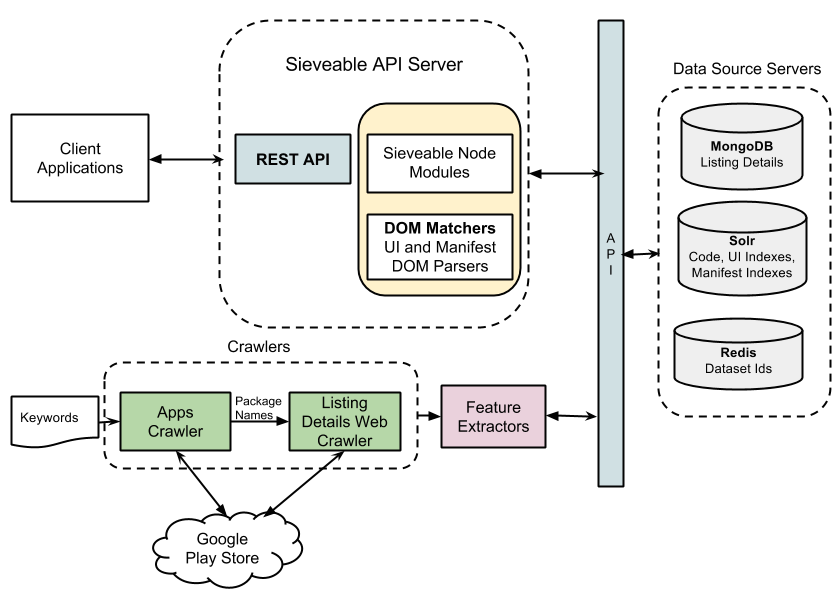
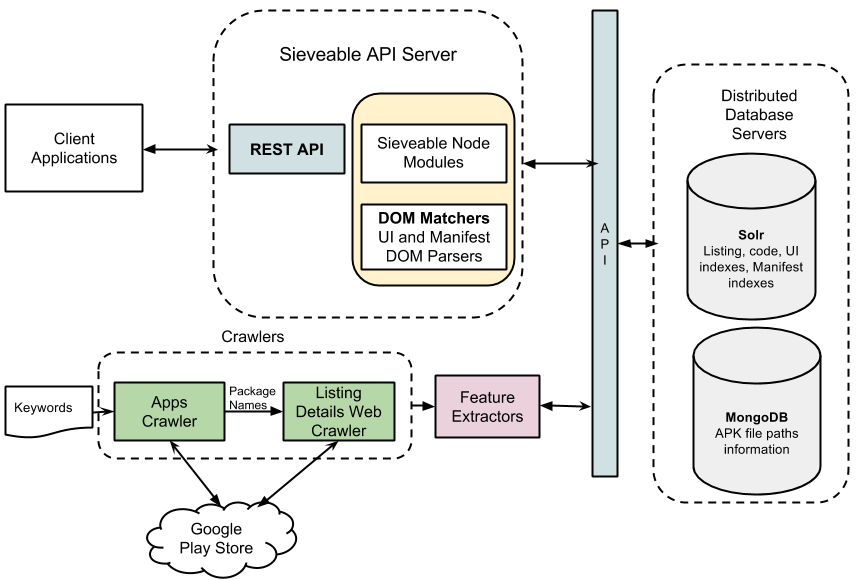
edit and update figures

Changed region(s): [[0.0, 0.0, 0.994, 1.0]]

diff --git a/sieveable.tex b/sieveable.tex
@@ -5,52 +5,54 @@ Most of the prior work in this area is limited to a single view of the data  and
 In addition, data-driven systems are largely constrained by the availability of samples and efficient indexing.
 This chapter presents Sieveable, a multi-view search engine for Android apps.
 Sieveable enables deep searching and filtering across multiple levels: (a) Listing Details, (b) User Interface structure, (c) Manifest structure, and (d) API calls. 
-Sieveable crawled and indexed more than 125,000 apps. 
-It provides a query by example language to specify deep search queries. 
-I discuss new findings that shed light on the potential of developing new data-driven systems based on our approach to answer different analysis questions.
-
-The work presented here is the result of collaboration with Jackson Chen and Tom Yeh (\cite{Alharbi_2015_VLDB}).
+Sieveable crawled and indexed more than 450,000 apps.
+It provides a query by example language to specify deep search queries.
+I discuss the key challenges in designing and developing a scalable retrieval system to enable the deep and longitudinal approach presented in this dissertation.
 
 \section{Introduction}
+Mobile software platforms feature a distribution platform for applications called marketplaces (or app stores).
+App marketplaces have become the largest platform for distributing mobile applications, where users can search for apps, browse through different categories, rate or review apps, and install free and paid apps.
+The popularity of mobile devices and the advances in their operating systems have led to a significant increase in the number of apps published in marketplaces.
+For example, as of April 2016, the number of apps in the Google Play Store has exceeded two million apps \cite{appbrain_play_apps}.
+These apps have become a valuable data source to mine and extract insight from in both academia and industry.
 
-The advent of online app markets such as the Google Play Store and Apple's App Store has made it convenient for developers to publish and sell apps and users to discover, purchase and install apps. 
-Together, a positive network effect has been in full force and has led to the exponential growth of the number of apps available in these online marketplaces.
-These apps collectively have become an important data mining problem for many in the academia as well as in the industry.
-Three domains in particular have seen significant data mining activities with respect to these apps.
-First, in the commercial domain, companies have been mining listing details data such as user reviews and ratings across these apps to understand customers' opinions and preferences \cite{appbrain,apptrace}.
-Second, in the user interface design domain, researchers have been mining the layouts of tens of thousands of apps to understand their design patterns \cite{Alharbi_2015_MobileHCI}.
-Third, in the security domain, researchers have been mining large corpuses of apps and malwares to learn about security vulnerabilities involving permissions uses \cite{zhou_2012_SP_dissecting} and sensitive data leaks \cite{Arzt_2014_PLDI}
+In the recent years, there has been a noticeable amount of research activities on how to extract meaningful insights from apps data.
+The research in mining mobile apps has been dominated by three single views.
+First, researchers have mined the listing details data (metadata) of apps such as ratings and user reviews to perform sentiment analysis and help developers make informed decisions supported by data \cite{fu_2013_KDD,chen_2014_ICSE,kong_2015_CCS}. 
+Others have created tools and commercial services to assist app developers and publishers in better understanding of listing details data \cite{appfigures,applause,appannie}.
+Second, researchers have mined user interface (UI) design data such as styles and layouts of thousands of apps to gain insights into their design patterns \cite{shirazi_EICS_2013} and my work in chapter~\ref{ch:mining_design_changes_chapter}.
+Third researchers have also mined the source code of apps to learn about malicious behavior and protect users' privacy-sensitive data \cite{zhou_2012_SP_dissecting,lu_2012_CCS,Arzt_2014_PLDI}.
+What is missing in prior research is an approach that takes both a holistic view (design and development) and temporal view (multiple versions) of the apps.
+There are multiple benefits for considering a holistic view that involves both design and development views in mobile app analysis.
 
-While research activities in these diverse domains have generated plenty of useful insights, they were often limited only to a single view of the data about each app.
-Commercial data mining of mobile apps tends to focus on the public view of the app, such as the app's listing information on a marketplace's website.
-The public listing information may include user reviews, ratings, app description, category, etc.
-Data mining for user interface design research tends to focus on the design view of an app, such as the layout files (XML in Android) and the user interface hierarchy defined in these files (e.g., a panel containing two buttons).
-Security researchers tend to pay attention to the program view of an app in the form of decompiled binaries or source code to perform programmatic analysis to understand security issues.
-There is little work, if any, that has taken a holistic view of the apps encompassing these three views.
-
-Searching and mining apps across multiple views can potentially accomplish what is currently not possible in a single view.
-In UI design analysis, dynamic components created at runtime are often missed because they were defined in the program rather than in the layout files.
-This shortcoming can be solved by considering both the design and program views simultaneously.
-In commercial analysis, sentiment analysis of user comments in the public view can be done to understand users' opinions about the apps, but it is often difficult to link these opinions to specific features.
-By incorporating the design view and program view, one can potentially establish a causal relationship between a new feature (or a bug) and the onset of certain opinions.
-In security analysis, a function could be determined, through programmatic analysis, to be triggering a sensitive operation, such as sending an SMS message or taking a photo.
+% Design and Development
+App design analysis focuses on UI related data (e.g.,) layout and style files) while development analysis focuses on code and configuration data (e.g., Manifest files).
+In design analysis, UI components are often created or modified at runtime.
+When only analyzing the static layout files, this observation is missed because that behavior is defined in the app source code.
+This shortcoming can be solved by combining both the design and development views.
+In sentiment analysis of user reviews, it is often difficult to link opinions to specific features.
+By incorporating the design view and development view, one can potentially establish a causal relationship between a new feature (or a bug) and the onset of certain opinions.
+In security analysis, a function could be determined, through program analysis, to be triggering a sensitive operation, such as sending an SMS message or taking a photo.
 But it is often hard to judge if the sensitive operation is warranted from the program view alone.
-By also taking a view of the design, one may examine which button may be linked to this sensitive operation and whether the button's label legitimizes such use: for example, ``Take a Picture'' for camera operations.
+By also taking a view of the design, one may examine which button may be linked to this sensitive operation and whether the button's label legitimizes such use: for example, ``Send'' for sending an SMS message.
+% Temporal analysis
+Furthermore, the increase number of app updates published to marketplaces has largely gone unobserved. 
+By only considering a single version of the app, one cannot form a deep understanding of the emerging trends in mobile design and development.
+% Scalable
+Supporting multi-view temporal analysis of apps is always challenging because it requires a scalable infrastructure for integrating multiple heterogeneous data sources.
+The store listing details data is document-oriented where every app shares a number of common fields such as the title, ratings, and category, which can be mined from app marketplaces.
+Design data is hierarchical; the layout files specify the relationship between various UI components in a tree structure.
+Program data is highly structural as it involves a large number of names of classes, methods, and variables.
+Mining apps in multiple views would require an integrated infrastructure that supports document-oriented, hierarchical, and structural data, and provides an easy interface to store, index, mine and analyze such data.
 
-Multiview data mining of apps is hard to do because most of the existing system architectures for mining apps have been built for one view only.
-Public view data is document-oriented where every app shares a number of common fields such as the title, ratings, and category, which can be mined from app marketplaces.
-Design data is hierarchical; the layout files would specify the containment relationship between components as a tree.
-Program data is highly textual as it involves a large number of names of classes, methods, and variables.
-If deeper program analysis is performed, such data would involve call graphs, giving the data a network topology.
-Thus, mining apps in multiple views would require an integrated infrastructure that supports document-oriented, hierarchical, textual and graphical data, and provides an easy interface to store, index, mine and analyze such data.
-
-This chapter presents \emph{Sieveable}, a novel search infrastructure for multi-view data mining of apps on a large scale to address the needs mentioned above.
-It introduces a new query language with a declarative, ``query-by-example'' syntax.
-Using this language, analysts could quickly retrieve a sample from a large corpus of apps that meet certain criteria with respect to the public view, the design view, and the program view in an integrated manner.
-
+In this chapter, I pursues a more general analysis approach that takes a holistic view of the apps over time and can potentially accomplish what is currently not possible in a single-view, single-version approach.
+I present \emph{Sieveable}, a novel retrieval platform for multi-view data mining of apps on a large scale to address the needs mentioned above.
+I discuss a new query language with a declarative, ``example-based'' syntax.
+Using this language, analysts could quickly retrieve a sample from a large corpus of apps that meet certain criteria with respect to the listing view, design view, and program view in an integrated manner.
+Prior to Sieveable, each of these analyses would take days of effort in writing custom scripts and running them on a cluster of servers (my work in chapter~\ref{ch:mining_design_changes_chapter}).
+With Sieveable, each analysis task can be expressed as a search query and results can be obtained in a matter of minutes.
 The chapter continues as follows. An overview of our system, detail description of its implementation to enable a new multi-view analytical queries.
-Prior to Sieveable, each of these analyses would take days of effort in writing custom scripts and running on a cluster \cite{Alharbi_2015_MobileHCI}.
-With Sieveable, each analysis can be expressed as a query and results can be obtained in a matter of minutes.
+
 
 \section{System Overview}
 In this section, we describe the key requirements of our system and its core components at a high level.
@@ -107,7 +109,7 @@ We download the Android Application Package (APK) file for apps from the officia
 For each APK file we download and add to the dataset, a web crawler is run to obtain its listing details web page.
 Next, we parsed the listing details HTML page to extract store listing values.
 In order to expose the app's UI and code structure, we run a reverse-engineering tool to decompile it, which results in a directory tree of app files that make up the app. 
-With more than one year effort, we manged to collect 125,306 apps with multiple versions\footnote{Note that sometimes the crawler was down, so it may have missed a number of updates.}.
+With more than one year effort, we manged to collect 452,775 apps with multiple versions\footnote{Note that sometimes the crawler was down, so it may have missed a number of updates.}.
 
 \subsubsection{Features Extraction}
 Once an app is downloaded and decoded, we run a set of tools to extract features at four levels:
@@ -119,13 +121,13 @@ All extracted features are listed in Table~\ref{tab:table_features}.
 
 \subsubsection{Features Indexing}
 When app features are extracted, we store and index them in scalable data stores to support efficient execution of search queries.
-Sieveable comprises four main data collections: listing details, user interface, Manifest, and source code.
-These collections are stored in different data stores and use different indexing strategies:
-1) Listing details features are stored in a document oriented database.
+Sieveable comprises four main data collections: APK files, listing details, user interface, Manifest, and source code.
+1) APK files: The binary APK files are saved on disk across multiple locations and their paths are stored in a document-oriented database along with their name and version values to facilitate quick retrieval.
+2) Listing details features are stored in a document-oriented database.
 We use text indices on specific fields (description, what's new section, reviews, and title).
-2) User interface: we use a structural index that keeps track of all DOM elements' relationships (parent/child and ancestor/descendant).
-3) Manifest features: we index DOM elements and their attributes.
-4) Code: we use a text index to support search of invoked API methods.
+3) User interface: we use a structural index that keeps track of all DOM elements' relationships (parent/child and ancestor/descendant).
+4) Manifest features: we index DOM element names and their attribute values.
+5) Code: we use a text index to support search of invoked API classes and methods.
 
 \subsubsection{Query Language Specification}
 \underline{\textbf{Query Syntax:}}
@@ -151,24 +153,31 @@ Multiple search conditions can be combined together allowing for a deep search a
 The \textit{RETURN} clause defines the subset of fields to include in the results.
 Multiple levels search conditions can be added to the \textit{WHERE} clause.
 For example, a search query for apps developed by \textit{Google}, have a \textit{LinearLayout} with a child \textit{Button}, use the SEND\_SMS permission, and call the takePicture API call, will look like:
-\begin{minted}{xml}
-	MATCH app
+\begin{listing}[ht]
+	\begin{minted}{xml}
+	MATCH app(latest=true)
 	WHERE
-    	<developer>Google Inc.</developer>
-	    <LinearLayout>
-	       <Button/>
-     	</LinearLayout>
-     	<uses-permission android:name="android.permission.SEND_SMS"/>
-     	<code class="android.hardware.Camera" method="takePicture"/>
+	<developer>Google Inc.</developer>
+	<LinearLayout>
+	   <Button/>
+	</LinearLayout>
+	<uses-permission android:name="android.permission.SEND_SMS"/>
+	<code class="android.hardware.Camera" method="takePicture"/>
 	RETURN app
-\end{minted}
+	\end{minted}
+	\caption{Sieveable query example.}
+	\label{lst:query_example}
+\end{listing}
 
 \underline{\textbf{Query Parser}}
 When a query is submitted to Sieveable, it parses the search condition parts to determine their query levels (listing, UI, manifest, and code).
 Sieveable maintains a set of dictionaries to lookup and extract search condition parts by their levels.
 In particular, it maintains three dictionaries: a predefined set of listing details fields, and a set of manifest XML elements, and a single XML element named code for code related queries.
 If an XML element in the query condition is not defined in any of the dictionaries, we consider it as a UI search element.
-For example, in the previous search query, Sieveable parses the \textit{WHERE} clause part and groups the query parts by their levels. This results in four query parts: a) listing details query for the \texttt{<developer>} tag, b) manifest query for the \texttt{<uses-permissions>} tag, c) code query for the \texttt{<code>} tag, and UI query for the remaining elements (LinearLayout and its child). Sieveable sends these query parts to the query executor.
+For example, Sieveable interprets the query in Listing~\ref{lst:query_example} as follows.
+It parses the \textit{WHERE} clause part and groups the query parts by their levels.
+This results in four query parts: a) listing details query for the \texttt{<developer>} tag, b) manifest query for the \texttt{<uses-permissions>} tag, c) code query for the \texttt{<code>} tag, and UI query for the remaining elements (\texttt{<LinearLayout>} and its child).
+Sieveable sends these query parts to the query executor.
 
 \underline{\textbf{Query Executor}}
 \begin{figure}
@@ -184,28 +193,24 @@ Collection finders return a set of app ids that matched the given query.
 Sieveable computes the intersection of app ids to avoid scanning entire collections.
 This also ensures that the final query results only contain ids for apps matched by all query conditions.
 
-Figure~\ref{fig:fig_query_execution} shows the execution sequence of the aforementioned query and the number of apps scanned by each collection.
-The dataset contains over 125K apps, the listing details query part is executed by the \textit{findByListing} module, which returns 249 apps developed by Google.
-Next, the \textit{findByCode} module executes the code query part on the the entire collection and returns N number of apps.
-Sieveable computes the intersection of the two results which becomes 66 apps.
-The \textit{findByManifestIndex} module searches the Manifest index for the Manifest query part and returns N number of apps.
-Sieveable computes the intersection of the two results which becomes 21 apps.
+Figure~\ref{fig:fig_query_execution} shows the execution sequence of the query in Listing~\ref{lst:query_example} and the number of apps scanned by each collection.
+The entire dataset contains over 400,000 apps.
+The listing details query part is executed by the \textit{findByListing} module, which returns 249 apps developed by Google and filtered by the latest version of each app.
+Next, the \textit{findByCode} module executes the code query part only on those 249 apps and returns 66 apps.
+The \textit{findByManifestIndex} module searches the Manifest index for the Manifest query part only on those 66 apps and returns 21 apps.
 The Manifest query part is sent to the \textit{findByManifestDOM} module to match the DOM tree for those 21 apps. Since the query part contains no hierarchical structure, the DOM matcher returns the 21 apps found by the index.
-Next the UI query part is sent to the index to search for apps wiht LinearLayout and child Button.
-The \textit{findByUIIndex} returns N number of apps. 
-Sieveable computes the intersection of the two results which becomes 15 apps.
+Next the UI query part is sent to the UI index to search for apps with LinearLayout and child Button.
+The \textit{findByUIIndex} searches the UI index for those 21 apps  and finds that 15 of them have that UI structure.
 The UI query part is sent to the \textit{findByUIDOM} module to match the DOM tree for those 15 apps which returns the final query results (15 apps).
-
-Finally, Sieveable returns any field defined in the return statement for the matched app ids.
-The query return clause includes only a single app field, so Sieveable will return an array of objects where each object contains key-value pairs for the app id, package name, and version code. Below is a part of the final query result:
-\begin{minted}{javascript}
-	[{
-		"app": {
-			"id": "com.google.android.talk-21224130",
-			"packageName": "com.google.android.talk",
-			"version": "21224130"
-		}
-	}]
+Finally, Sieveable returns any field defined in the return clause for the matched app ids.
+The return clause in the submitted query includes only a single app field, so Sieveable will return an array of objects where each object contains key-value pairs for the app id, package name, and version code. Below is part of the final query result:
+\begin{minted}[fontsize=\footnotesize]{javascript}
+[{ "app": { 
+"id": "com.google.android.talk-21224130",
+"packageName": "com.google.android.talk",
+"version": "21224130"
+}
+}]
 \end{minted}
 
 \section{System Implementation}
@@ -255,11 +260,13 @@ Third, we extract all API calls from the smali files, a human readable assembly-
 We save the extracted API calls in one text file per app.
 
 \subsection{Data Indexers}
-Sieveable index the extracted features and adds them to Solr indices for fast data access. We use five Solr logical indexes to index our dataset: listing index, UI tag index, ui structural index, manifest tag index, and code index.
+Sieveable indexes the extracted features in Solr collections for fast data access.
+A collection is a complete logical index.
+We use five Solr logical indexes to index our dataset: listing index, UI tag index, ui structural index, manifest tag index, and code index.
 
-\textbf{Indexing Listing Details:} Four listing details fields are indexed (description, title, ``what's new'', and reviews) to support text based search.
+\textbf{Indexing Listing Details:} It contains all listing detail fields. Four fields are indexed as generic text fields (description, title, ``what's new'', and reviews) to support text based search.
 
-\textbf{Indexing UI data:} The extracted UI files are indexed in two Solr indices: \textit{1) Tag Index:} We extract all tag names and attributes and store them in one index document.
+\textbf{Indexing UI Data:} The extracted UI files are indexed in two Solr indices: \textit{1) Tag Index:} We extract all tag names and attributes and store them in one index document.
 This index holds all tag names and their attributes.
 \textit{2) Structural Index:} a suffix tree based index that stores the XML tree in a suffix array format \cite{shasha_2002_atreegrep}.
 This index holds values that indicate the parent-child relationship of nodes in the XML tree. (e.g., \path{LinerLayout->Button}).
@@ -268,33 +275,33 @@ We add this document to Solr and use it as the tag index.
 The second generated document describes the UI tree in a suffix-tree format where each line corresponds to a root-to-leaf path for all XML elements (e.g., \path{RelativeLayout->LinearLayout->ImageButton}).
 We add this document to Solr and use it as the structural index.
 
-\textbf{Indexing Manifest data:} The extracted manifest files are indexed by their tag names and attribute values.
+\textbf{Indexing Manifest Data:} The extracted manifest files are indexed by their tag names and attribute values.
 Unlike UI queries, Manifest queries are less structural (e.g., find \path{"android.permission.CAMERA"}).
-Therefore, we use the same UI tag index method to add manifest files to the Solr Index.
+Therefore, we use the same UI tag index method to add manifest files to the Solr index.
 
-\textbf{Indexing Code files}, we add the extracted invoked API calls from the smali source code files to Solr.
+\textbf{Indexing Code Files}, we add the extracted invoked API calls from the smali source code files to Solr.
 
 \subsection{Data Store Servers}
-Sieveable uses three database servers: 
-a) MongoDB: contains collections for listing details and downloaded APK file paths.
-b) Apache Solr: contains indices for the UI tags and attributes, UI structural, Manifest attributes, and Code files.
-c) Redis: a key-value data store where keys correspond to a dataset type (UI, manifest, code) and values are the unique app ids.
-This is used to improve the performance of computing the intersection of the returned ids from each collection.
+Sieveable uses two main NoSQL database servers:
+a) MongoDB \cite{mongodb}: is a document-oriented NoSQL database. It contains a collection for storing information about the downloaded APK files.
+b) Apache Solr \cite{solr}: is a document-oriented NoSQL Search Platform.
+We use Solr to store distributed collections for listing detail fields, UI tags and attributes, UI structural index, Manifest attributes, and code files.
+Due to the large size of our data sets (over 8TB), we found that a single machine is not sufficient to store this large data sets.
+Thus, we shard and replicate the collections across a cluster of multiple nodes to improve the system performance and availability.
+We use an external Zookeeper \cite{zookeeper} cluster of five nodes to synchronize Solr's configuration and elect leaders.
 \subsection{DOM Matchers}
 
-Sieveable UI and Manifest search queries are written in ``query-by-example'' syntax.
+Sieveable UI and Manifest search queries are written in  ``example-based'' syntax.
 We implement a custom DOM matchers module to navigate the XML DOM tree and select DOM elements with a particular DOM structure.
-The DOM matchers are written in Node.js using a jQuery like DOM manipulation library called cheerio.
-While loading DOM files for complex queries is often considered expensive, the hierarchical indices we implemented significantly increased the number of potential candidates. 
+The DOM matchers perform a jQuery like DOM manipulation.
+While loading DOM files for complex queries is often considered expensive, the use of hierarchical indices reduce the number of false candidates significantly.
 However, parsing the DOM for large number of files has an inevitable memory and system resources overhead.
-Therefore, Sieveable uses a configurable default limit of 10 results per a given search query.
-Users can also use a streaming API to receive the entire query results.
+Therefore, Sieveable uses a configurable default limit of 50 results per a given search query and return an inalterable cursor to the client to receive the entire query results.
 
 \subsection{RESTful API}
-Client applications can access Sieveable through a RESTful API. The API provides an HTTP GET request mechanism. It features a streaming based access, where it maintains a long-running request and pushes the results as they become available.
-This is useful when submitting queries and asking Sieveable to return the entire result.
-By streaming results, client applications do not have to wait until the query completes its execution. 
-For an easy query access, Sieveable has a web client application that interacts with the RESTful API.
+Client applications can access Sieveable through a RESTful API.
+The API provides an HTTP GET request mechanism allowing client applications to submit queries and receive the result as a JSON document.
+For an easy query access, Sieveable has both a command line and web client applications that interact with the RESTful API.
 
 %\section{Comparison to Prior Work}
 %TODO
